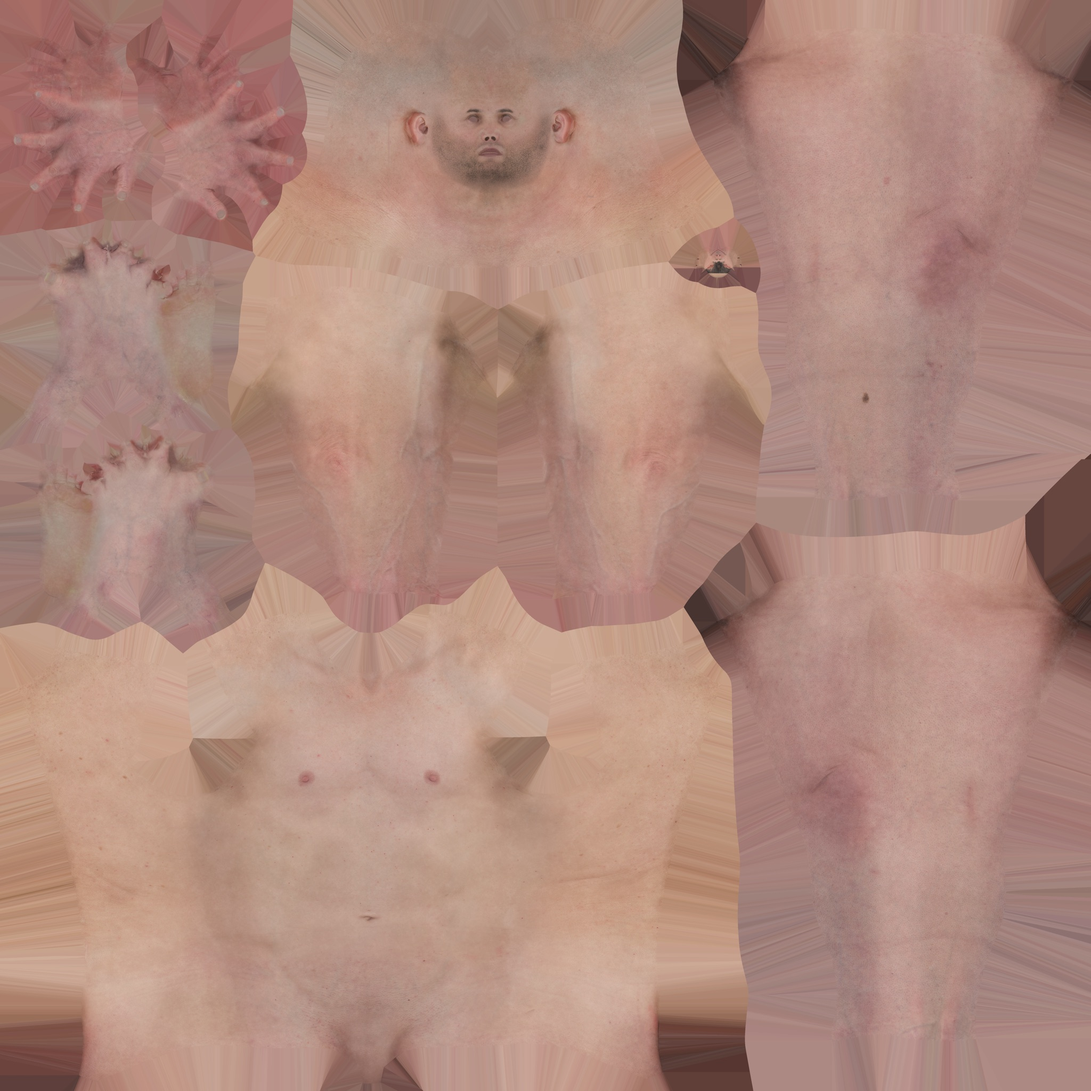
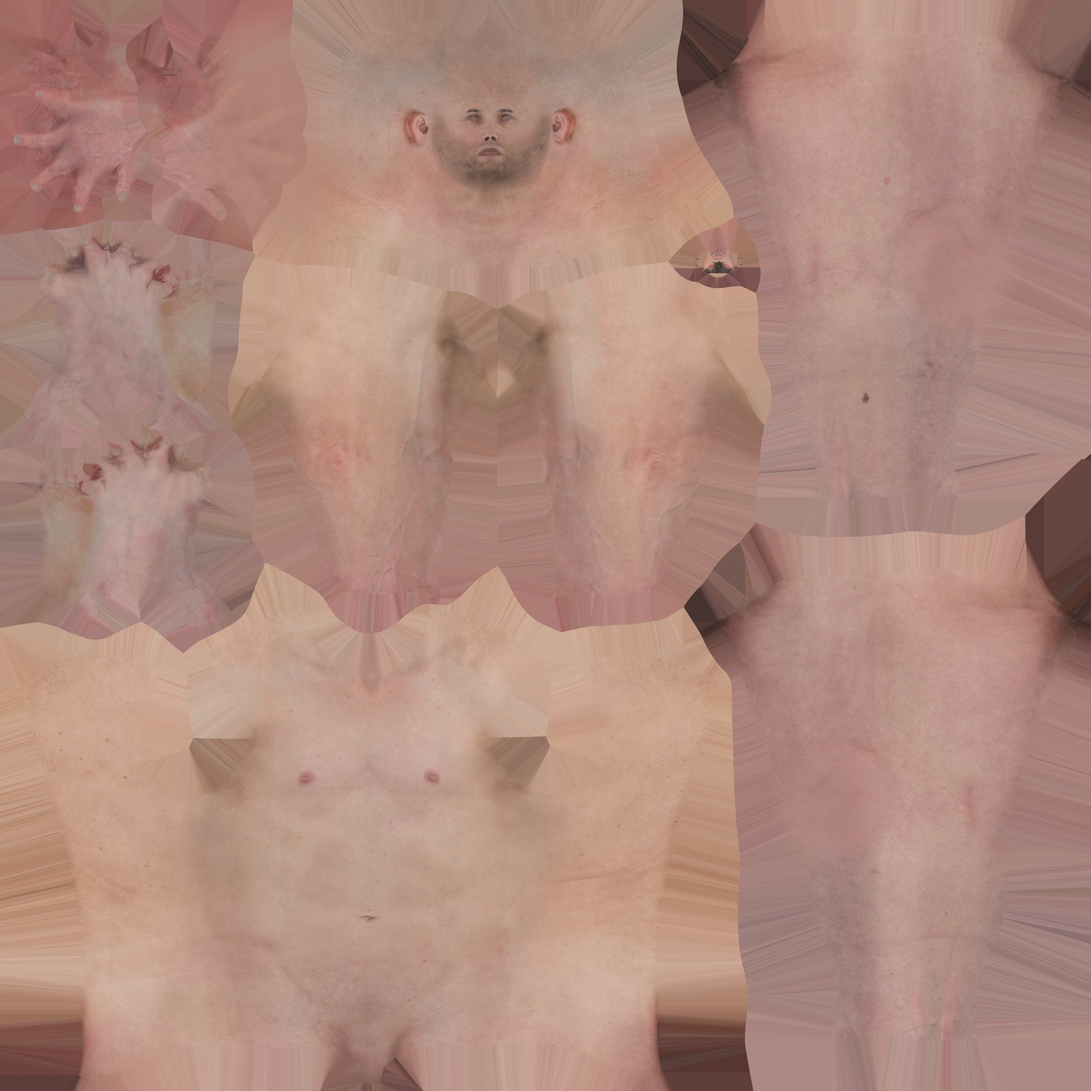
Corrige les taches roses/rouges sur les corps 3D et le bras/hanche de Male
- Désactive le mipmapping des textures de peau des corps entiers : le
  filtrage minifiait en mélangeant les texels de peau avec le fond de
  remplissage voisin de chaque île UV sur les zones vues de biais
  (cuisses de Female notamment), produisant des taches qui n'existaient
  pas dans les fichiers source.
- Retouche male_d.jpg : deux marques (dos/flanc, contenu photo réel du
  fichier source) atténuées, et la zone où le flanc échantillonnait par
  erreur le bord strié de la texture des mains neutralisée.

Changed region(s): [[0.1875, 0.0312, 0.2812, 0.2188]]

diff --git a/index.html b/index.html
@@ -4287,6 +4287,13 @@ function chargerTexture(url, srgb, aAttendre){
   if(srgb) t.colorSpace=THREE.SRGBColorSpace;
   t.wrapS=t.wrapT=THREE.RepeatWrapping;   // UV en tuiles UDIM sur Female
   t.anisotropy=8; t.flipY=false;          // convention glTF
+  // Chaque île UV touche un fond de remplissage uni près de ses bords ; avec
+  // le mipmapping par défaut, le filtrage minifie en mélangeant des texels
+  // de peau avec ce fond sur les zones vues de biais (silhouette des cuisses,
+  // aisselles…), ce qui produit des taches roses/rouges qui n'existent pas
+  // dans le fichier source. Le désactiver élimine ces taches ; la légère
+  // perte de lissage à distance est sans conséquence pour un buste cadré de près.
+  t.generateMipmaps=false; t.minFilter=THREE.LinearFilter;
   texCache.set(url,t); return t;
 }
 
